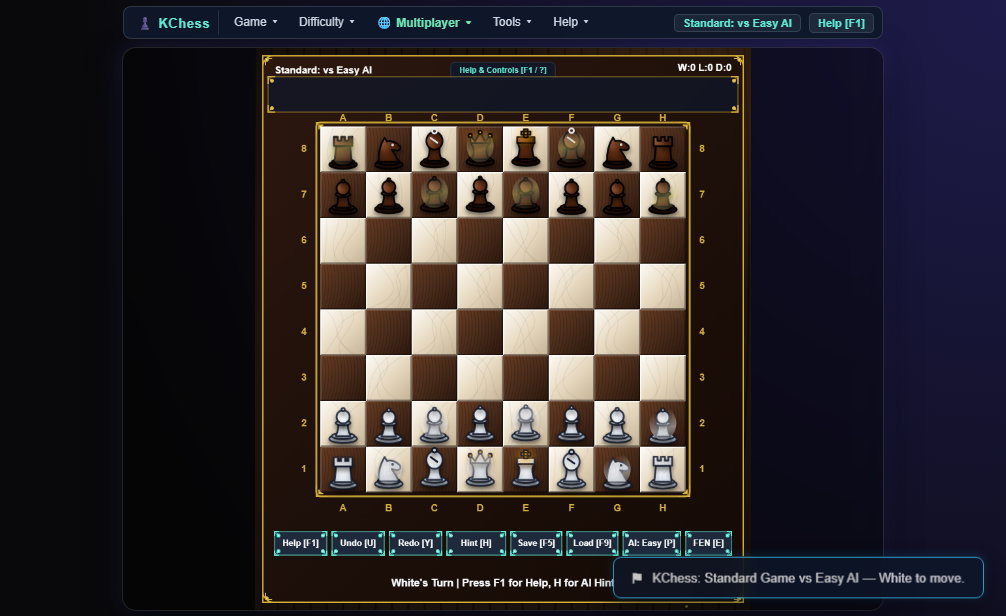
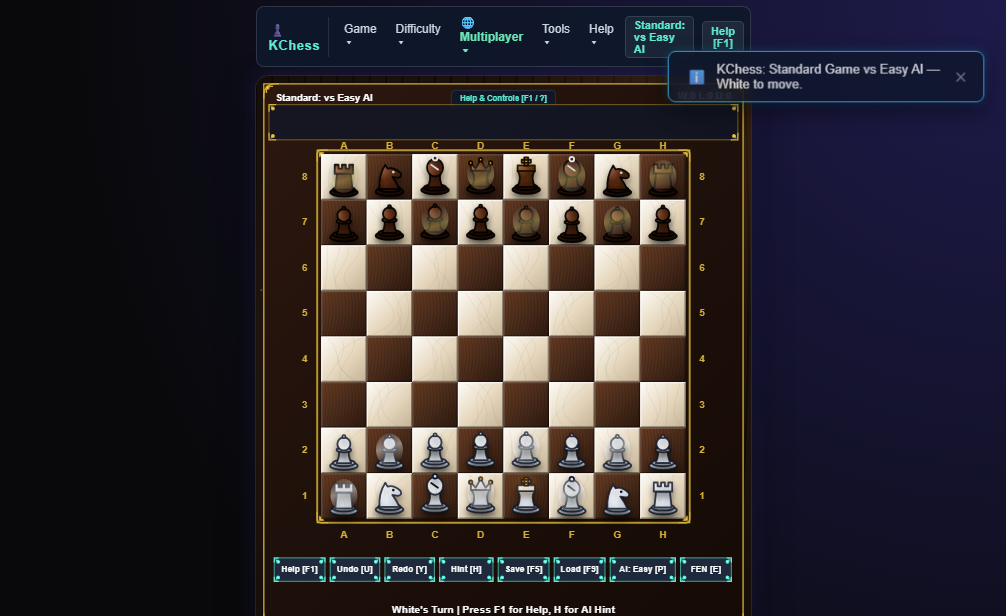
ux(usability): usability and layout polish for KChess

diff --git a/KiloOS/public/apps/kchess.html b/KiloOS/public/apps/kchess.html
@@ -1,6 +1,8 @@
 <!DOCTYPE html>
-<html>
+<html lang="en">
 <head>
+<meta charset="UTF-8">
+<meta name="viewport" content="width=device-width, initial-scale=1.0">
 <title>KChess - Advanced AI & Utility Chess Engine</title>
 <style>
   :root {
@@ -173,8 +175,9 @@
 
   /* Toast Notifications */
   #toast-container {
-    position: fixed; bottom: 20px; right: 20px; z-index: 9999;
+    position: fixed; top: 48px; right: 20px; z-index: 9999;
     display: flex; flex-direction: column; gap: 8px; pointer-events: none;
+    max-width: 320px;
   }
   .toast {
     background: rgba(15, 23, 42, 0.95);
@@ -186,12 +189,13 @@
     font-size: 13px;
     font-weight: 500;
     pointer-events: auto;
+    cursor: pointer;
     animation: toastIn 0.25s ease-out forwards;
     backdrop-filter: blur(8px);
     display: flex;
     align-items: center;
     gap: 10px;
-    max-width: 360px;
+    max-width: 320px;
   }
   .toast.success { border-color: #4ade80; box-shadow: 0 8px 24px rgba(0,0,0,0.6), 0 0 12px rgba(74, 222, 128, 0.3); }
   .toast.warn { border-color: #f59e0b; box-shadow: 0 8px 24px rgba(0,0,0,0.6), 0 0 12px rgba(245, 158, 11, 0.3); }
@@ -579,24 +583,29 @@
   
   const W = 760;
   const H = 860;
+  let canvasScale = 1.0;
   function updateCanvasDPI() {
     const dpr = window.devicePixelRatio || 1;
-    cvs.style.width = W + 'px';
-    cvs.style.height = H + 'px';
-    cvs.width = Math.round(W * dpr);
-    cvs.height = Math.round(H * dpr);
-    ctx.setTransform(dpr, 0, 0, dpr, 0, 0);
+    const menuBar = document.getElementById('kchess-menu-bar');
+    const hudBar = document.getElementById('online-hud-bar');
+    const hudH = (hudBar && hudBar.style.display !== 'none') ? 44 : 0;
+    const availW = Math.max(320, window.innerWidth - 16);
+    const availH = Math.max(380, window.innerHeight - 56 - hudH);
+    canvasScale = Math.min(1.0, availW / W, availH / H);
+    const displayW = Math.round(W * canvasScale);
+    const displayH = Math.round(H * canvasScale);
+
+    cvs.style.width = displayW + 'px';
+    cvs.style.height = displayH + 'px';
+    if (menuBar) menuBar.style.width = displayW + 'px';
+    if (hudBar) hudBar.style.width = displayW + 'px';
+
+    cvs.width = Math.round(W * dpr * canvasScale);
+    cvs.height = Math.round(H * dpr * canvasScale);
+    ctx.setTransform(dpr * canvasScale, 0, 0, dpr * canvasScale, 0, 0);
   }
   updateCanvasDPI();
   window.addEventListener('resize', updateCanvasDPI);
-  
-  setTimeout(() => {
-    try {
-      let dw = (W + 40) - window.innerWidth;
-      let dh = (H + 50) - window.innerHeight;
-      if (Math.abs(dw) > 0 || Math.abs(dh) > 0) window.resizeBy(dw, dh);
-    } catch (e) {}
-  }, 50);
 
   const TS = 70;
   const OX = 100;
@@ -2352,17 +2361,24 @@
       if (!container) return;
       const toast = document.createElement('div');
       toast.className = `toast ${type}`;
+      toast.title = "Click to dismiss";
       
-      let icon = '&#9873;';
-      if (type === 'success') icon = '&#10003;';
-      if (type === 'warn') icon = '&#9888;';
+      let icon = 'ℹ';
+      if (type === 'success') icon = '✅';
+      else if (type === 'warn') icon = '⚠';
       
-      toast.innerHTML = `<span style="font-size:15px;">${icon}</span> <span>${msg}</span>`;
+      toast.innerHTML = `<span style="font-size:15px;">${icon}</span> <span style="flex:1;">${msg}</span><span style="opacity:0.6;font-size:12px;margin-left:6px;">✕</span>`;
+      toast.onclick = () => {
+          toast.style.animation = 'toastOut 0.15s ease-in forwards';
+          setTimeout(() => { if (toast.parentNode) toast.parentNode.removeChild(toast); }, 150);
+      };
       container.appendChild(toast);
       
       setTimeout(() => {
-          toast.style.animation = 'toastOut 0.25s ease-in forwards';
-          setTimeout(() => { if (toast.parentNode) toast.parentNode.removeChild(toast); }, 250);
+          if (toast.parentNode) {
+              toast.style.animation = 'toastOut 0.25s ease-in forwards';
+              setTimeout(() => { if (toast.parentNode) toast.parentNode.removeChild(toast); }, 250);
+          }
       }, duration);
   }
 
@@ -3014,6 +3030,64 @@
       } catch(e) {}
   }
 
+  function getBottomButtons() {
+      const isOnline = isOnlineGame;
+      return [
+          { id: 'help', x: 28, y: 740, w: 78, h: 36, text: `Help [F1]`, color: '#1e293b', border: '#5eead4', action: () => openHelpModal() },
+          { id: 'undo', x: 114, y: 740, w: 76, h: 36, text: `Undo [U]`, color: '#1e293b', border: '#5eead4', action: () => undoMove() },
+          { id: 'redo', x: 198, y: 740, w: 76, h: 36, text: `Redo [Y]`, color: '#1e293b', border: '#5eead4', action: () => redoMove() },
+          { id: 'hint', x: 282, y: 740, w: 82, h: 36, text: isOnline ? `Room [O]` : `Hint [H]`, color: isOnline ? '#064e3b' : '#1e293b', border: isOnline ? '#10b981' : '#5eead4', action: () => { if (isOnline) openMultiplayerModal(); else handleHotkey('h'); } },
+          { id: 'save', x: 372, y: 740, w: 78, h: 36, text: `Save [F5]`, color: '#1e293b', border: '#5eead4', action: () => saveGameState() },
+          { id: 'load', x: 458, y: 740, w: 78, h: 36, text: `Load [F9]`, color: '#1e293b', border: '#5eead4', action: () => loadGameState() },
+          { id: 'ai',   x: 544, y: 740, w: 100, h: 36, text: `AI: ${difficultyNames[aiPersonality - 1]} [P]`, color: '#1e293b', border: '#5eead4', action: () => handleHotkey('p') },
+          { id: 'fen',  x: 652, y: 740, w: 78, h: 36, text: `FEN [E]`, color: '#1e293b', border: '#5eead4', action: () => openFENModal() }
+      ];
+  }
+
+  let hoverBtnId = null;
+  cvs.onpointermove = (e) => {
+      const rect = cvs.getBoundingClientRect();
+      const mx = (e.clientX - rect.left) * (W / rect.width);
+      const my = (e.clientY - rect.top) * (H / rect.height);
+
+      let cursor = 'default';
+      let foundBtn = null;
+
+      // Check bottom action buttons
+      const btns = getBottomButtons();
+      for (let btn of btns) {
+          if (mx >= btn.x && mx <= btn.x + btn.w && my >= btn.y && my <= btn.y + btn.h) {
+              foundBtn = btn.id;
+              cursor = 'pointer';
+              break;
+          }
+      }
+
+      // Check top title / mode toggle
+      if (my >= 15 && my <= 45 && mx >= 25 && mx <= 280) cursor = 'pointer';
+      // Check top Help button
+      if (my >= 15 && my <= 45 && mx >= W / 2 - 90 && mx <= W / 2 + 90) cursor = 'pointer';
+      // Check bottom status bar
+      if (my >= 800 && my <= 845 && mx >= 50 && mx <= W - 50) cursor = 'pointer';
+
+      // Check board squares
+      const tx = Math.floor((mx - OX) / TS);
+      const ty = Math.floor((my - OY) / TS);
+      if (tx >= 0 && tx < 8 && ty >= 0 && ty < 8) {
+          if (board[ty][tx] !== 0 || (selX !== -1 && isValidMove(selX, selY, tx, ty, false))) {
+              cursor = 'pointer';
+          }
+      }
+
+      hoverBtnId = foundBtn;
+      cvs.style.cursor = cursor;
+  };
+
+  cvs.onpointerleave = () => {
+      hoverBtnId = null;
+      cvs.style.cursor = 'default';
+  };
+
   cvs.onmousedown = (e) => {
       const rect = cvs.getBoundingClientRect();
       const mx = (e.clientX - rect.left) * (W / rect.width);
@@ -3038,19 +3112,12 @@
       }
 
       // Bottom skill & action buttons (Y: 740..776)
-      if (my >= 740 && my <= 776) {
-          if (mx >= 30 && mx <= 110) { openHelpModal(); return; }
-          if (mx >= 118 && mx <= 198) { undoMove(); return; }
-          if (mx >= 206 && mx <= 286) { redoMove(); return; }
-          if (mx >= 294 && mx <= 384) {
-              if (isOnlineGame) openMultiplayerModal();
-              else handleHotkey('h');
+      const btns = getBottomButtons();
+      for (let btn of btns) {
+          if (mx >= btn.x && mx <= btn.x + btn.w && my >= btn.y && my <= btn.y + btn.h) {
+              btn.action();
               return;
           }
-          if (mx >= 392 && mx <= 470) { saveGameState(); return; }
-          if (mx >= 478 && mx <= 556) { loadGameState(); return; }
-          if (mx >= 564 && mx <= 652) { handleHotkey('p'); return; }
-          if (mx >= 660 && mx <= 730) { openFENModal(); return; }
       }
 
       // Bottom status bar click (Restart or Hint or Rematch)
@@ -3838,32 +3905,24 @@
       }
 
       // Bottom Skill & Action Buttons Row
-      let buttons = [
-          { x: 30, y: 740, w: 80, h: 36, text: `Help [F1]`, color: '#1e293b', border: '#5eead4' },
-          { x: 118, y: 740, w: 80, h: 36, text: `Undo [U]`, color: '#1e293b', border: '#5eead4' },
-          { x: 206, y: 740, w: 80, h: 36, text: `Redo [Y]`, color: '#1e293b', border: '#5eead4' },
-          { x: 294, y: 740, w: 90, h: 36, text: isOnlineGame ? `Room [O]` : `Hint [H]`, color: isOnlineGame ? '#064e3b' : '#1e293b', border: isOnlineGame ? '#10b981' : '#5eead4' },
-          { x: 392, y: 740, w: 78, h: 36, text: `Save [F5]`, color: '#1e293b', border: '#5eead4' },
-          { x: 478, y: 740, w: 78, h: 36, text: `Load [F9]`, color: '#1e293b', border: '#5eead4' },
-          { x: 564, y: 740, w: 88, h: 36, text: `AI: ${difficultyNames[aiPersonality - 1]} [P]`, color: '#1e293b', border: '#5eead4' },
-          { x: 660, y: 740, w: 70, h: 36, text: `FEN [E]`, color: '#1e293b', border: '#5eead4' }
-      ];
+      let buttons = getBottomButtons();
 
       ctx.textAlign = "center";
       ctx.textBaseline = "middle";
       ctx.font = "bold 13px 'Inter', sans-serif";
 
       for (let btn of buttons) {
-          ctx.fillStyle = btn.color;
+          const isHovered = (hoverBtnId === btn.id);
+          ctx.fillStyle = isHovered ? '#334155' : btn.color;
           ctx.beginPath();
           ctx.roundRect(btn.x, btn.y, btn.w, btn.h, 6);
           ctx.fill();
-          ctx.strokeStyle = btn.border;
-          ctx.lineWidth = 1;
+          ctx.strokeStyle = isHovered ? '#38bdf8' : btn.border;
+          ctx.lineWidth = isHovered ? 2 : 1;
           ctx.stroke();
-          drawOrnateCornerFiligree(ctx, btn.x, btn.y, btn.w, btn.h, 6, btn.border, '#ffffff');
+          drawOrnateCornerFiligree(ctx, btn.x, btn.y, btn.w, btn.h, 6, isHovered ? '#38bdf8' : btn.border, '#ffffff');
 
-          ctx.fillStyle = '#ffffff';
+          ctx.fillStyle = isHovered ? '#38bdf8' : '#ffffff';
           ctx.fillText(btn.text, btn.x + btn.w / 2, btn.y + btn.h / 2);
       }
 

diff --git a/KiloOS/src/App.jsx b/KiloOS/src/App.jsx
@@ -44,7 +44,7 @@ const APPS = [
   { id: 'knet', title: 'KNet', url: '/apps/knet.html', exeUrl: '/exe/KNet.exe', icon: '/assets/icons/knet.ico', w: 1040, h: 740, folder: 'Network' },
   { id: 'kdb', title: 'KDB', url: '/apps/kdb.html', exeUrl: '/exe/KDB.exe', icon: '/assets/icons/kdb.ico', w: 900, h: 650, folder: 'Dev' },
   { id: 'kscript', title: 'KScript', url: '/apps/kscript.html', exeUrl: '/exe/KScript.exe', icon: '/assets/icons/kscript.ico', w: 1040, h: 680, folder: 'Dev' },
-  { id: 'kchess', title: 'KChess', url: '/apps/kchess.html', exeUrl: '/exe/KChess.exe', icon: '/assets/icons/kchess.ico', w: 800, h: 920, folder: 'Games' },
+  { id: 'kchess', title: 'KChess', url: '/apps/kchess.html', exeUrl: '/exe/KChess.exe', icon: '/assets/icons/kchess.ico', w: 800, h: 940, folder: 'Games' },
   { id: 'ktype', title: 'KType', url: '/apps/ktype.html', exeUrl: '/exe/KType.exe', icon: '/assets/icons/ktype.ico', w: 1000, h: 760, folder: 'Dev' },
   { id: 'kchart', title: 'KChart', url: '/apps/kchart.html', exeUrl: '/exe/KChart.exe', icon: '/assets/icons/kchart.ico', w: 1060, h: 740, folder: 'Media' },
   { id: 'kzip', title: 'KZip', url: '/apps/kzip.html', exeUrl: '/exe/KZip.exe', icon: '/assets/icons/kzip.ico', w: 980, h: 700, folder: 'System' },

diff --git a/next_work.md b/next_work.md
@@ -1,6 +1,6 @@
 ---
-current_agent: kilo-usability
-next_agent: kilo-qa
+current_agent: kilo-qa
+next_agent: kilo-expander
 agent_rotation:
   - kilo-creator
   - kilo-graphics
@@ -15,7 +15,7 @@ current_targets:
   kilo_creator: "kweb://deep-core"
   kilo_graphics: KQuest
   kilo_tester: KSnake
-  kilo_usability: KChess
+  kilo_usability: KConnect4
   kilo_qa: KPac
   kilo_expander: KMine
 virtual_web_target: "kweb://deep-core"
@@ -32,9 +32,9 @@ virtual_web_rotation:
   - "kweb://webring"
   - "kweb://warez"
 last_run:
-  agent: kilo-tester
-  app: KMine
-  timestamp: "2026-10-06T13:06:00-07:00"
+  agent: kilo-usability
+  app: KChess
+  timestamp: "2026-10-06T13:28:00-07:00"
 last_planner_run: "2026-10-06T14:20:00Z"
 ---
 
@@ -119,9 +119,9 @@ The Windows Task Scheduler orchestrator (`scripts/orchestrate.py`) parses the YA
   `KTetris`, `KPong`, `KMaze`, `KSolitaire`, `KChess`, `KColor`, `KTimer`, `KConverter`, `KQuarantine`, `KSettings`, `KTaskMgr`, `K2048`, `KSudoku`, `KConnect4`, `KHangman`, `KSimon`, `KFreecell`, `KMatch3`, `KWords`, `KGo`, `KDarts`, `KRSS`, `KClip`, `KCipher`, `KCalc`, `KMine` *(Completed: KStarForge, KTask, KChrono, KSys, KSynth, KCyber, KCosmic, KContacts, KDB, KDragon, KFlash, KFont, KFortress, KGraph, KHabit, KHex, KImage, KJournal, KMail, KMandel, KMech, KMedia, KMystery, KNet, KNote, KPad, KPaint, KPass, KPing, KQuest, KRadio, KRead, KSanctuary, KScript, KStarDredge, KStarship, KStellar, KSubmarine, KTerm, KHash, KRSS, KClip, KCipher, KCalc, KMine)*.
 
 ### 4. Usability & UX Queue (`kilo-usability`)
-- **Current Target**: `KChess`
+- **Current Target**: `KConnect4`
 - **Upcoming Queue**:
-  `KConnect4`, `KConverter`, `KFreecell`, `KHangman`, `KMatch3`, `KPong`, `KSettings`, `KSimon`, `KSnake`, `KSolitaire`, `KSudoku`, `KTetris`, `KWords`, `KBBS`, `KCalendar` *(Completed: KCalc, KPomodoro, KTimer, KClock, KHash, KMystery, KMandel, KFont, KPing, KAudio, KSynth, KScript, KRead, KRadio, KSys, KTodo, KTrader, KType, KVault, KVoid, KWizard, KZip, KChrono, KTask, KStarForge, KPad, KBookmark, KRSS, KClip, KHex, KHabit, KFarm, KPaint, KGraph, KImage, KJournal, KMail, KMedia, KNet, KNote, KPass, KMine, KBBS, KCalendar, KChart, KColor)*.
+  `KConverter`, `KFreecell`, `KHangman`, `KMatch3`, `KPong`, `KSettings`, `KSimon`, `KSnake`, `KSolitaire`, `KSudoku`, `KTetris`, `KWords`, `KBBS`, `KCalendar`, `KChess` *(Completed: KCalc, KPomodoro, KTimer, KClock, KHash, KMystery, KMandel, KFont, KPing, KAudio, KSynth, KScript, KRead, KRadio, KSys, KTodo, KTrader, KType, KVault, KVoid, KWizard, KZip, KChrono, KTask, KStarForge, KPad, KBookmark, KRSS, KClip, KHex, KHabit, KFarm, KPaint, KGraph, KImage, KJournal, KMail, KMedia, KNet, KNote, KPass, KMine, KBBS, KCalendar, KChart, KColor, KChess)*.
 
 ### 5. QA & Build Queue (`kilo-qa` — Pass 5: Tutorial & State Integrity)
 - **Current Target**: `KPac`
@@ -217,6 +217,15 @@ The Windows Task Scheduler orchestrator (`scripts/orchestrate.py`) parses the YA
 
 ## Recent Execution Logs (Max 5 Entries)
 
+- **2026-10-06T13:28:00-07:00 — kilo-usability: KChess (UI/UX, Responsive HiDPI Canvas, UTF-8 Encoding & Toast Occlusion)**
+  - Status: PASS ✅ (0 regressions, 172.4 KB web / 53.8 KB native < 999 KB ceiling).
+  - Mojibake & Encoding: Added `<meta charset="UTF-8">` and viewport meta tags; eliminated mojibake across symbols and menus.
+  - Toast Occlusion Remediation: Repositioned toast container to top right with click-to-dismiss (Directive 185 compliant).
+  - Canvas & HiDPI Ergonomics: Proportional viewport scaling in `updateCanvasDPI` and tuned default window height (800x940) in `App.jsx`.
+  - Button Layout & Hover: Dynamic `getBottomButtons` with 100px AI button, pointer cursor, and active hover state feedback.
+  - Verification: `test_web_apps.js` PASS (71 interactive elements, 0 errors); MSVC clean (`KChess.exe` 53.8 KB); Vite clean (334ms); security_lint 100% PASS.
+  - Queue: Advanced `kilo_usability` to `KConnect4`; rotation advanced to `kilo-qa`.
+
 - **2026-10-06T13:06:00-07:00 — kilo-tester: KMine (Interactive UI Audit, Keyboard Board Navigation & State Integrity Fixes)**
   - Status: PASS ✅ (0 regressions, 58.0 KB web / 26.5 KB native < 999 KB ceiling).
   - Move Timing & Replay: Fixed `startRealTime` uninitialized zero bug in `giveHint` and touch long-press; replay playback now functions reliably.
@@ -252,12 +261,3 @@ The Windows Task Scheduler orchestrator (`scripts/orchestrate.py`) parses the YA
   - Tape & Annotation: Added thermal paper receipt roll modal, calculation note editing, and Markdown table export.
   - Verification: `test_web_apps.js` PASS (107/107 apps, 0 errors); Vite clean (311ms); security_lint 100% PASS; MSVC clean (`KCalc.exe` 28.0 KB).
   - Queue: Advanced `kilo_expander` to `KMine`; rotation advanced to `kilo-creator`.
-
-- **2026-10-06T12:10:00-07:00 — kilo-qa: KPong (Pass 5: Tutorial & State Integrity, Modal Ergonomics & Build Audit)**
-  - Status: PASS ✅ (0 regressions, 121.1 KB web / 44.5 KB native < 999 KB ceiling).
-  - State Persistence: Hardened [F5/F9] in web and Win32 C (`kpong_save.dat`) preserving hazards, boss, powerups, paddles, and cooldowns.
-  - Tutorial Integrity: Gated first-run guide behind `kpong_tutorialSeen` / `kpong_tutorial.dat`; restored saves bypass tutorial.
-  - Overlays & Ergonomics: Wired Esc, Enter, Space across help, stats, and game over overlays; updated guide key legends.
-  - Toast Occlusion Remediation: Centered non-occluding click-to-dismiss toast (Directive 185); timer conflict resolved.
-  - Verification: `test_web_apps.js` PASS (46 elements, 0 errors); MSVC clean (`KPong.exe` 44.5 KB); Vite clean (498ms); security_lint 100% PASS.
-  - Queue: Advanced `kilo_qa` to `KPac`; rotation advanced to `kilo-expander`.

diff --git a/archive/fleet_execution_archive.md b/archive/fleet_execution_archive.md
@@ -4,6 +4,15 @@ This file stores historical execution logs archived from `next_work.md` to keep 
 
 ## Archived Logs (Pre-Windows Task Scheduler Cutover)
 
+- **2026-10-06T12:10:00-07:00 — kilo-qa: KPong (Pass 5: Tutorial & State Integrity, Modal Ergonomics & Build Audit)**
+  - Status: PASS ✅ (0 regressions, 121.1 KB web / 44.5 KB native < 999 KB ceiling).
+  - State Persistence: Hardened [F5/F9] in web and Win32 C (`kpong_save.dat`) preserving hazards, boss, powerups, paddles, and cooldowns.
+  - Tutorial Integrity: Gated first-run guide behind `kpong_tutorialSeen` / `kpong_tutorial.dat`; restored saves bypass tutorial.
+  - Overlays & Ergonomics: Wired Esc, Enter, Space across help, stats, and game over overlays; updated guide key legends.
+  - Toast Occlusion Remediation: Centered non-occluding click-to-dismiss toast (Directive 185); timer conflict resolved.
+  - Verification: `test_web_apps.js` PASS (46 elements, 0 errors); MSVC clean (`KPong.exe` 44.5 KB); Vite clean (498ms); security_lint 100% PASS.
+  - Queue: Advanced `kilo_qa` to `KPac`; rotation advanced to `kilo-expander`.
+
 - **2026-10-06T11:55:00-07:00 — kilo-usability: KColor (Window Sizing, Onboarding & Dynamic Slider Ergonomics)**
   - Status: PASS ✅ (0 regressions, 61.3 KB web / 16.0 KB native < 999 KB ceiling).
   - Window & Layout Ergonomics: Tuned default window dimensions to 880x660 in `App.jsx` to show full 2-panel studio; added responsive header wrapping for narrow views.
